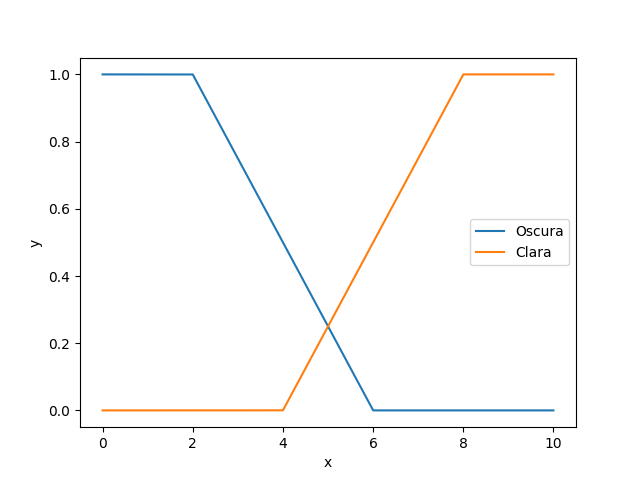
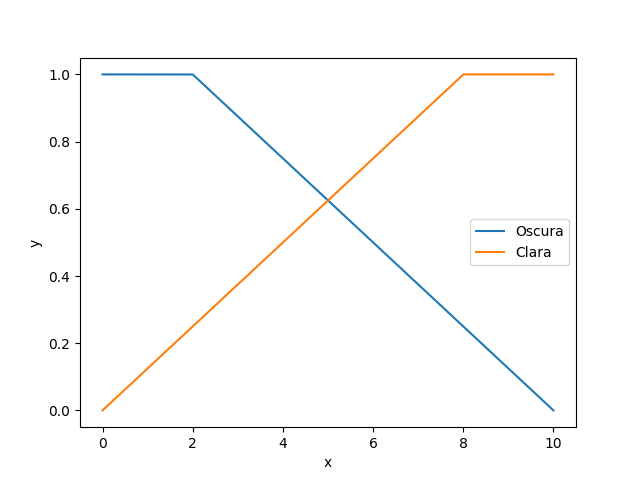
Ending the inform and fix bugs around clausure of agregations

diff --git a/main.py b/main.py
@@ -16,9 +16,9 @@ class Tamano:
 tamano = LinguisticVariable(
     "Tamano",
     {
-        Tamano.Pequena: Z(0, 5),
-        Tamano.Mediana: Gaussiana(5, 3),
-        Tamano.Grande: S(5, 10),
+        Tamano.Pequena: Z(0, 8),
+        Tamano.Mediana: Gaussiana(5, 4),
+        Tamano.Grande: S(2, 10),
     },
 )
 
@@ -33,8 +33,8 @@ class Color:
 color = LinguisticVariable(
     "Color",
     {
-        Color.Oscura: L(2, 6),
-        Color.Clara: Gamma(4, 8),
+        Color.Oscura: L(2, 10),
+        Color.Clara: Gamma(0, 8),
     },
 )
 
@@ -50,8 +50,8 @@ class Suavidad:
 suavidad = LinguisticVariable(
     "Suavidad",
     {
-        Suavidad.Blanda: Z(0, 8),
-        Suavidad.Dura: S(2, 10),
+        Suavidad.Blanda: Z(0, 10),
+        Suavidad.Dura: S(0, 10),
     },
 )
 
@@ -67,9 +67,9 @@ class Calidad:
 calidad = LinguisticVariable(
     "Calidad",
     {
-        Calidad.Mala: L(2, 4),
+        Calidad.Mala: L(1, 4),
         Calidad.Regular: Lambda(2, 5, 8),
-        Calidad.Buena: Gamma(6, 10),
+        Calidad.Buena: Gamma(5, 9),
     },
 )
 
@@ -152,40 +152,46 @@ restaurantSystem.add_rule(rule_9)
 restaurantSystem.add_rule(rule_10)
 
 
-# print("\nTest 1: Tamaño 3, Color 7, Suavidad 5")
+print("\nTest 1: Tamaño 3, Color 7, Suavidad 5")
 
-# (mamd,) = mamdani(restaurantSystem, 3, 7, 5)
-# (lars,) = larsen(restaurantSystem, 3, 7, 5)
+(mamd,) = mamdani(restaurantSystem, 3, 7, 5)
+(lars,) = larsen(restaurantSystem, 3, 7, 5)
 
-# print(f"Mamdani: {mamd.centroid(interval(0, 10))}")
-# print(f"Larsen: {lars.centroid(interval(0, 10))}")
+print(f"Mamdani: {mamd.bisect(interval(0, 10))}")
+print(f"Larsen: {lars.bisect(interval(0, 10))}")
 
+# mamd.plot(interval(0, 10))
+# lars.plot(interval(0, 10))
 
-print("\nTest 2: Tamaño 9, Color 1, Suavidad 1")
+print("\nTest 2: Tamaño 4, Color 1, Suavidad 1")
 
-mmds = mamdani(restaurantSystem, 9, 1, 1)
-larss = larsen(restaurantSystem, 9, 1, 1)
+(mamd,) = mamdani(restaurantSystem, 9, 1, 1)
+(mamd,) = larsen(restaurantSystem, 9, 1, 1)
 
-# mamd.plot(interval(0, 1))
-# lars.plot(interval(0, 1))
+print(f"Mamdani: {mamd.bisect(interval(0, 10))}")
+print(f"Larsen: {lars.bisect(interval(0, 10))}")
 
-
-# print(f"Mamdani: {mamd.centroid(interval(0, 10))}")
-# print(f"Larsen: {lars.centroid(interval(0, 10))}")
-
+# mamd.plot(interval(0, 10))
+# lars.plot(interval(0, 10))
 
 print("\nTest 3: Tamaño 5, Color 1, Suavidad 10")
 
 (mamd,) = mamdani(restaurantSystem, 5, 1, 10)
 (lars,) = larsen(restaurantSystem, 5, 1, 10)
 
-print(f"Mamdani: {mamd.centroid(interval(0, 10))}")
-print(f"Larsen: {lars.centroid(interval(0, 10))}")
+print(f"Mamdani: {mamd.bisect(interval(0, 10))}")
+print(f"Larsen: {lars.bisect(interval(0, 10))}")
+
+# mamd.plot(interval(0, 10))
+# lars.plot(interval(0, 10))
 
 print("\nTest 4: Tamaño 4, Color 4, Suavidad 5")
 
 (mamd,) = mamdani(restaurantSystem, 4, 4, 5)
 (lars,) = larsen(restaurantSystem, 4, 4, 5)
 
-print(f"Mamdani: {mamd.centroid(interval(0, 10))}")
-print(f"Larsen: {lars.centroid(interval(0, 10))}")
+print(f"Mamdani: {mamd.bisect(interval(0, 10))}")
+print(f"Larsen: {lars.bisect(interval(0, 10))}")
+
+# mamd.plot(interval(0, 10))
+# lars.plot(interval(0, 10))

diff --git a/fuzzy/inference.py b/fuzzy/inference.py
@@ -6,6 +6,20 @@ from .funtions import Max, Min, Ploteable  # noqa: F401
 from .set import FuzzySet
 
 
+def Min(f, v):
+    def inner(*args, **kwargs):
+        return min(f(*args, **kwargs), v)
+
+    return inner
+
+
+def Mult(f, v):
+    def inner(*args, **kwargs):
+        return f(*args, **kwargs) * v
+
+    return inner
+
+
 class LinguisticVariable:
     def __init__(self, name: str, linguistic_values: dict):
         self.name = name
@@ -66,17 +80,16 @@ def mamdani(fuzzysystem: FuzzySystem, *values):
     agregation = {var.name: [] for var in fuzzysystem.output_variables}
     for rule in fuzzysystem.rules:
         v = rule.antecedent(**vector)
-        rule.antecedent.plot(interval(0, 10))
+        # rule.antecedent.plot(interval(0, 10))
         for c in rule.consequences:
-            print(v)
-            c.plot(interval(0, 10))
-            agregation[c.linguistic_variable].append(
-                lambda *args, **kwargs: min(c.membership_function(*args, **kwargs), v)
-            )
-    for a in agregation:
-        for f in agregation[a]:
-            p = FuzzySet("Agregation", "Agregation", f)
-            p.plot(interval(0, 10))
+            # print(v)
+            # c.plot(interval(0, 10))
+            agregation[c.linguistic_variable].append(Min(c.membership_function, v))
+    # for a in agregation:
+    #     fs = agregation[a]
+    #     for f in fs:
+    #         p = FuzzySet("Agregation", "Agregation", f)
+    #         p.plot(interval(0, 10))
 
     return [
         FuzzySet(var.name, "Mamdani", Max(*agregation[var.name]))
@@ -92,9 +105,7 @@ def larsen(fuzzysystem: FuzzySystem, *values):
     for rule in fuzzysystem.rules:
         v = rule.antecedent(**vector)
         for c in rule.consequences:
-            agregation[c.linguistic_variable].append(
-                lambda *args, **kwargs: v * c.membership_function(*args, **kwargs)
-            )
+            agregation[c.linguistic_variable].append(Mult(c.membership_function, v))
     return [
         FuzzySet(var.name, "Larsen", Max(*agregation[var.name]))
         for var in fuzzysystem.output_variables

diff --git a/fuzzy/set.py b/fuzzy/set.py
@@ -64,7 +64,9 @@ class And(FuzzySet):
         self.right = right
 
     def __call__(self, *args, **kwargs):
-        return min(self.left(*args, **kwargs), self.right(*args, **kwargs))
+        left = self.left(*args, **kwargs)
+        right = self.right(*args, **kwargs)
+        return min(left, right)
 
 
 class Or(FuzzySet):
@@ -73,7 +75,9 @@ class Or(FuzzySet):
         self.right = right
 
     def __call__(self, *args, **kwargs):
-        return max(self.left(*args, **kwargs), self.right(*args, **kwargs))
+        left = self.left(*args, **kwargs)
+        right = self.right(*args, **kwargs)
+        return max(left, right)
 
 
 class Negation(FuzzySet):

diff --git a/doc/Informe.md b/doc/Informe.md
@@ -53,5 +53,32 @@ Las reglas que usaremos para este sistema son:
 
 [^1]: El tamaño no importa ;)  
 
+## 3. Métodos de inferencia y Agregación
+
+Para modelar los problemas nuestra biblioteca posee variadas herramientas. En el archivo functions.py se encuentran modeladas diferentes funciones comúnmente usadas como función de membresía para conjuntos difusos. También nuestras reglas gozan del uso de predicados disjuntos y conjuntos, con operadores de Unión(`|`), Intersección (`&`) o Complemento (`!`).
+
+Los métodos para realizar la defusificacion están insertados de forma implícita en los valores lingüísticos.
+
+En el archivo inference.py se encuentran también dos métodos de inferencia implementados. Mamdani y Larsen. 
+
+Los ejemplos de uso se encuentran en el archivo main.py el cual es usado para la solución de nuestro problema.
+
+## Pruebas
+
+Luego de realizar variadas pruebas, estos fueron los resultados arrojados:
+
+- Prueba 1. Tamaño 3, Color 7, Suavidad 5
+  - Mamdani: 5.055
+  - Larsen: 5.072
+- Prueba 2. Tamaño 4, Color 1, Suavidad 1
+  - Mamdani: 3.785
+  - Larsen: 5.072
+- Prueba 3. Tamaño 5, Color 1, Suavidad 10
+  - Mamdani: 4.79
+  - Larsen: 4.842
+- Prueba 4. Tamaño 4, Color 4, Suavidad 5
+  - Mamdani: 5.066
+  - Larsen: 50.98
+
 
 
